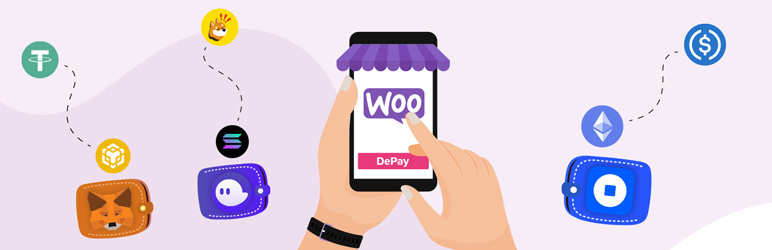
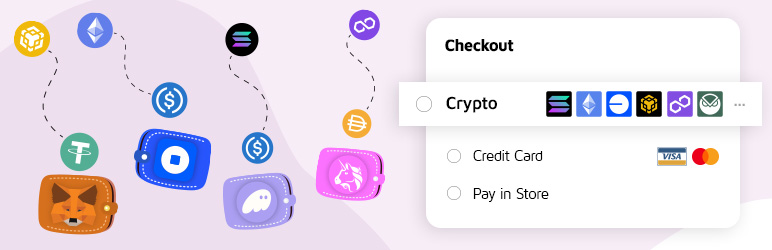
v2.4.0: updates wordpress.org graphics

diff --git a/depay-woocommerce-payments.php b/depay-woocommerce-payments.php
@@ -11,7 +11,7 @@
  * WC tested up to: 8.0.2
  * Requires at least: 5.8
  * Requires PHP: 7.0
- * Version: 2.3.1
+ * Version: 2.4.0
  *
  * @package DePay\Payments
  */
@@ -21,7 +21,7 @@ defined( 'ABSPATH' ) || exit;
 define( 'DEPAY_WC_PLUGIN_FILE', __FILE__ );
 define( 'DEPAY_WC_ABSPATH', __DIR__ . '/' );
 define( 'DEPAY_MIN_WC_ADMIN_VERSION', '0.23.2' );
-define( 'DEPAY_CURRENT_VERSION', '2.3.1' );
+define( 'DEPAY_CURRENT_VERSION', '2.4.0' );
 
 require_once DEPAY_WC_ABSPATH . '/vendor/autoload.php';
 
